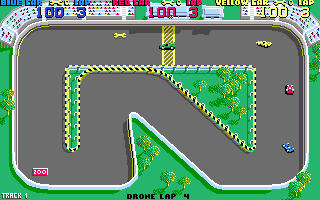
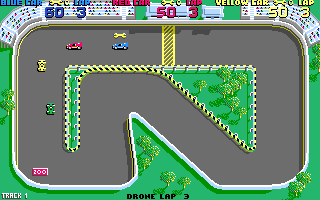
reversing/supersprint: status-bar "glitch" is the grandstand crowd, not a bug
The 52nd pass flagged the top band of the Track 1 attract demo (the three
CAR panels / lap readouts) as "garbled multicolour pixels" and left it
un-investigated. 53rd pass: it is the stadium grandstand crowd - hundreds of
1-2px spectator sprites on white bench rows, drawn by the glyph/sprite
blitters at $152xx-$154xx, reading as speckle only at 320x200 shown small.
Coherent at zoom, drawn identically across all three panels (a decode bug
would corrupt them unevenly), all text/digits/icons and the whole playfield
correct, selftest wrong-answer lane unchanged. Verified by tracing every
write into $f8000+$21100 rows 0-29 over several frames: only that blitter
and the per-frame dirty-rect restore (movem.l copy at $14252 from the
offscreen HUD stash at $59736) touch the band - no stray blit, no wrong
screen base, no half-applied Setpalette. The title screen renders flawlessly,
which rules out a systemic blitter/plane/shift fault.

gameplay.png regenerated from a live drone-car frame (was a frozen hold).

diff --git a/M68000/reversing/supersprint/README.md b/M68000/reversing/supersprint/README.md
@@ -52,8 +52,9 @@ which the instruction-counted timing already models.
 
 ```
 unzip "Super Sprint.zip"
-ATARI_NOTRACE=1 ATARI_TRACE_OS=1 ATARI_DISK_A="Super Sprint.ST" \
-  dotnet exec bin/Debug/net8.0/M68000.dll 40000000
+ATARI_NOTRACE=1 ATARI_TRACE_OS=1 \
+  dotnet exec bin/Debug/net8.0/M68000.dll 40000000 --disk-a "Super Sprint.ST"
+# or:  ./run.ps1 -DiskA "Super Sprint.ST" -Trace boot 40000000
 ```
 
 `ATARI_TRACE_OS=1` narrates the run. Trace summary:
@@ -81,20 +82,31 @@ the credits screen. The game **never polls the keyboard** (no `Bconstat` / `Ccon
 
 - `title.png` — framebuffer (`$f8000`, low-res, 16-colour) at step 34 000 000: the
   "SUPER SPRINT / © 1986 Atari Games" logo screen (F1 car bursting through), correct.
-- `gameplay.png` — step 26 000 000: the overhead Track 1 with cars, barriers and
-  trees, correct playfield. The **top status bar** (per-car `LAP` counters) looks
-  wrong — garbled multicolour pixels along the top rows. Cause not yet pinned down:
-  no HBL handler is installed (vector `$68` = ROM default), so it is *not* a raster
-  palette split; candidates are a half-captured `Setpalette`, a plane-data / screen
-  base-offset bug in that region, or a real content bug. Not investigated this pass.
-  (An earlier capture at step 27 900 000 caught a sparse screen-wipe frame —
-  mid-transition, not a bug.)
+- `gameplay.png` — the overhead Track 1 attract demo (drone cars mid-lap): correct
+  playfield, cars, barriers, trees, shadows, `TRACK 1` / `DRONE LAP` text.
+
+### The "status bar glitch" — investigated 53rd pass, not an emulator bug
+
+The 52nd pass flagged the top band (the three `BLUE/RED/YELLOW CAR` panels with
+their lap-time readouts) as "garbled multicolour pixels". It isn't a rendering
+fault: that band is the **grandstand crowd** — hundreds of 1–2px spectator sprites
+on white bench rows, drawn by the glyph/sprite blitters at `$152xx`–`$154xx`. At
+320×200 shown small it reads as speckle; zoom in and it is a coherent crowd, and it
+is drawn identically across all three panels (a decode bug would corrupt them
+unevenly — it doesn't). Every text glyph, the lap-time digits, the car icons and
+the whole playfield render correctly, and the CPU selftest wrong-answer lane is
+unchanged. Confirmed by tracing every write into `$f8000`+`$21100` rows 0–29 over
+several frames: the only writers are that crowd/glyph blitter and the per-frame
+dirty-rect restore (`movem.l` copy at `$14252` from the offscreen HUD stash at
+`$59736`) — no stray blit, no wrong screen base, no half-applied `Setpalette`.
+(The RED/centre panel showing a clean readout box + a TV-monitor icon while the
+other two sit on crowd texture is the intended attract layout, not a defect.)
 
 ## How the CFG was built
 
 ```
-ATARI_NOTRACE=1 ATARI_TRACE_GEMDOS=1 ATARI_DISK_A="Super Sprint.ST" \
-  ATARI_TRACE_EVENTS=ss_events.bin dotnet exec bin/Debug/net8.0/M68000.dll 30000000
+ATARI_NOTRACE=1 ATARI_TRACE_GEMDOS=1 ATARI_TRACE_EVENTS=ss_events.bin \
+  dotnet exec bin/Debug/net8.0/M68000.dll 30000000 --disk-a "Super Sprint.ST"
 
 python tools/trace_cfg.py ss_events.bin --steps 1811361 12000000 \
   --range a300 1c000 --names supersprint.sym \
@@ -139,6 +151,6 @@ the attract-mode logic (the `$153xx` and `$165xx`–`$167xx` clusters).
 | `cfg.dot` / `cfg.svg` | control-flow graph, `$15300`–`$16800` |
 | `blocks.txt` | executed basic-block table with hit counts (coverage map) |
 | `title.png` | framebuffer at step 34 000 000 — the "SUPER SPRINT / © 1986 Atari Games" logo screen |
-| `gameplay.png` | framebuffer at step 26 000 000 — the in-attract Track 1 demo (status bar has a rendering glitch, see above) |
+| `gameplay.png` | framebuffer during the in-attract Track 1 drone-car demo (the top band is the grandstand crowd, not a glitch — see above) |
 
 The game binary and `Super Sprint.ST` are **not** included; see above to rebuild.
